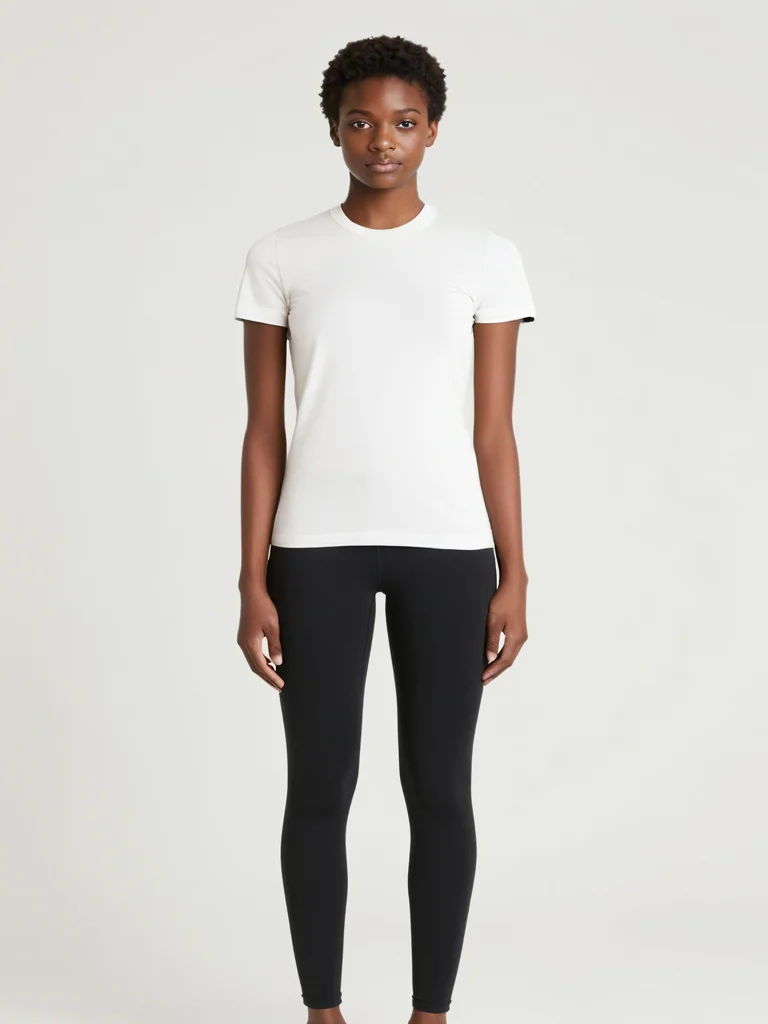
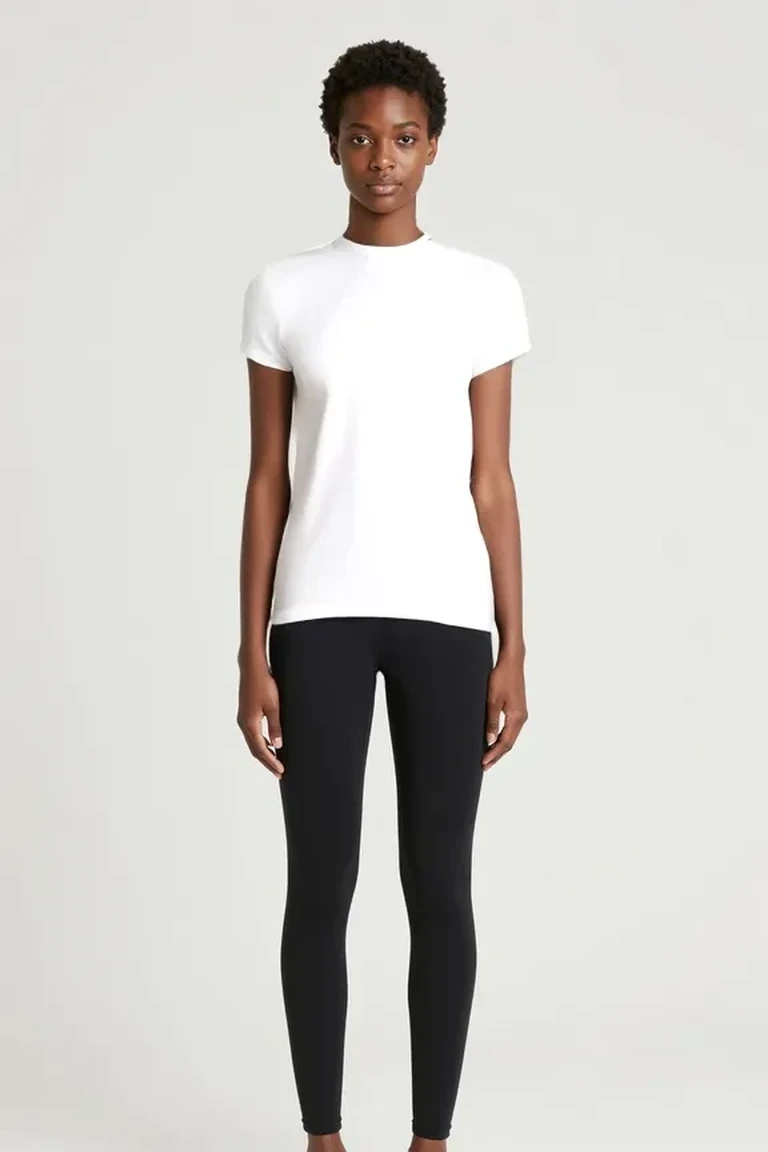
Ralph iteration 2: work in progress

diff --git a/wordpress-theme/skyyrose-flagship/assets/js/preorder-gateway.js b/wordpress-theme/skyyrose-flagship/assets/js/preorder-gateway.js
@@ -730,6 +730,11 @@
 				formData.forEach(function (value, key) {
 					params.push(encodeURIComponent(key) + '=' + encodeURIComponent(value));
 				});
+				// Ensure nonce is included for server-side verification.
+				var nonce = window.skyyRoseData && window.skyyRoseData.nonce;
+				if (nonce && params.join('').indexOf('nonce') === -1) {
+					params.push('nonce=' + encodeURIComponent(nonce));
+				}
 				xhr.send(params.join('&'));
 			});
 		}
@@ -843,6 +848,16 @@
 
 		tickUrgency();
 		urgencyInterval = setInterval(tickUrgency, 60000);
+
+		// Pause/resume urgency countdown when tab visibility changes.
+		document.addEventListener('visibilitychange', function () {
+			if (document.hidden) {
+				if (urgencyInterval) { clearInterval(urgencyInterval); urgencyInterval = null; }
+			} else {
+				tickUrgency();
+				if (!urgencyInterval) { urgencyInterval = setInterval(tickUrgency, 60000); }
+			}
+		});
 	}
 
 	/* --------------------------------------------------

diff --git a/wordpress-theme/skyyrose-flagship/assets/css/woocommerce-checkout.css b/wordpress-theme/skyyrose-flagship/assets/css/woocommerce-checkout.css
@@ -611,3 +611,14 @@
 .skyy-checkout .woocommerce-breadcrumb {
 	display: none;
 }
+
+/* Reduced motion: disable step fade-in animation and progress transitions */
+@media (prefers-reduced-motion: reduce) {
+	.skyy-checkout__step--active,
+	.skyy-checkout__step[data-skyy-active] {
+		animation: none;
+	}
+	.skyy-checkout__progress-fill {
+		transition: none;
+	}
+}

diff --git a/wordpress-theme/skyyrose-flagship/assets/js/conversion-engine.js b/wordpress-theme/skyyrose-flagship/assets/js/conversion-engine.js
@@ -61,8 +61,6 @@
 			Object.keys(attrs).forEach(function (key) {
 				if (key === 'textContent') {
 					el.textContent = attrs[key];
-				} else if (key === 'innerHTML') {
-					el.innerHTML = attrs[key];
 				} else {
 					el.setAttribute(key, attrs[key]);
 				}
@@ -675,10 +673,12 @@
 			cleanupIntervals.forEach(function (id) {
 				clearInterval(id);
 			});
-		} else {
-			// Intervals are cleared, not resumable. Re-init viewer counters on next page interaction.
-			// For now, just clear the array so stale IDs aren't re-cleared.
 			cleanupIntervals.length = 0;
+		} else {
+			// Re-init viewer counters when tab becomes visible again.
+			// This restarts intervals that were cleared when the tab was hidden.
+			initLiveViewerCounter();
+			initRoomViewers();
 		}
 	});
 

diff --git a/wordpress-theme/skyyrose-flagship/assets/js/immersive.js b/wordpress-theme/skyyrose-flagship/assets/js/immersive.js
@@ -27,6 +27,7 @@
 	var titleOverlay  = document.querySelector('.scene-title-overlay');
 
 	// Product panel
+	var currentProductId = null;
 	var panelOverlay  = document.querySelector('.product-panel-overlay');
 	var panel         = document.querySelector('.product-panel');
 	var panelClose    = document.querySelector('.product-panel-close');
@@ -85,10 +86,13 @@
 	   Title Auto-Hide
 	   -------------------------------------------------- */
 
+	var titleHideTimer = null;
+
 	function initTitleAutoHide() {
 		if (!titleOverlay) return;
-		setTimeout(function () {
+		titleHideTimer = setTimeout(function () {
 			titleOverlay.classList.add('hidden');
+			titleHideTimer = null;
 		}, 4000);
 	}
 

diff --git a/wordpress-theme/skyyrose-flagship/assets/js/front-page.js b/wordpress-theme/skyyrose-flagship/assets/js/front-page.js
@@ -225,6 +225,11 @@
 			formData.forEach(function (value, key) {
 				params.push(encodeURIComponent(key) + '=' + encodeURIComponent(value));
 			});
+			// Ensure nonce is included for server-side CSRF verification.
+			var nonce = typeof skyyRoseData !== 'undefined' && skyyRoseData.nonce;
+			if (nonce && params.join('').indexOf('nonce') === -1) {
+				params.push('nonce=' + encodeURIComponent(nonce));
+			}
 			xhr.send(params.join('&'));
 		});
 	}

diff --git a/wordpress-theme/skyyrose-flagship/assets/js/journey-gamification.js b/wordpress-theme/skyyrose-flagship/assets/js/journey-gamification.js
@@ -503,6 +503,8 @@
 			if (e.target === overlay) dismiss();
 		});
 		document.addEventListener('keydown', keyHandler);
+		// Clean up document-level listener if user navigates away while modal is open.
+		window.addEventListener('beforeunload', dismiss);
 
 		// Show with animation.
 		requestAnimationFrame(function () {

diff --git a/wordpress-theme/skyyrose-flagship/inc/ajax-handlers.php b/wordpress-theme/skyyrose-flagship/inc/ajax-handlers.php
@@ -348,18 +348,10 @@ function skyyrose_ajax_signin() {
 	$cache_key = 'skyyrose_login_attempts_' . md5( $normalized_email );
 	$attempts  = (int) get_transient( $cache_key );
 
-	// Secondary: per-IP bucket as defence-in-depth (wider limit for shared IPs/proxies).
-	$ip_key      = 'skyyrose_login_ip_' . md5( isset( $_SERVER['REMOTE_ADDR'] ) ? $_SERVER['REMOTE_ADDR'] : 'unknown' );
-	$ip_attempts = (int) get_transient( $ip_key );
-
-	if ( $ip_attempts >= 20 ) {
-		wp_send_json_error(
-			array(
-				'message' => esc_html__( 'Too many attempts from your network. Please try again later.', 'skyyrose-flagship' ),
-			)
-		);
-		return;
-	}
+	// Per-IP rate limiting removed: on WordPress.com (and all proxy environments),
+	// REMOTE_ADDR is the proxy IP — shared by ALL users. A per-IP bucket of 20
+	// would lock out every user sitewide after 20 total login attempts.
+	// The per-email bucket (5 attempts / 15 min) is sufficient defence.
 
 	if ( $attempts >= 5 ) {
 		wp_send_json_error(
@@ -375,7 +367,6 @@ function skyyrose_ajax_signin() {
 
 	if ( is_wp_error( $user ) ) {
 		set_transient( $cache_key, $attempts + 1, 15 * MINUTE_IN_SECONDS );
-		set_transient( $ip_key, $ip_attempts + 1, 15 * MINUTE_IN_SECONDS );
 		wp_send_json_error(
 			array(
 				'message' => esc_html__( 'Invalid email or password. Please try again.', 'skyyrose-flagship' ),
@@ -384,9 +375,8 @@ function skyyrose_ajax_signin() {
 		return;
 	}
 
-	// Clear both rate-limit counters on successful login.
+	// Clear rate-limit counter on successful login.
 	delete_transient( $cache_key );
-	delete_transient( $ip_key );
 
 	// Initialize session and set authentication cookies.
 	$remember = isset( $_POST['remember'] ) && '1' === sanitize_text_field( wp_unslash( $_POST['remember'] ) );

diff --git a/wordpress-theme/skyyrose-flagship/inc/wishlist-functions.php b/wordpress-theme/skyyrose-flagship/inc/wishlist-functions.php
@@ -394,7 +394,15 @@ function skyyrose_ajax_move_to_cart() {
 	}
 }
 add_action( 'wp_ajax_skyyrose_move_to_cart', 'skyyrose_ajax_move_to_cart' );
-// nopriv removed: cart mutations require authentication (guest sessions can't persist wishlists).
+// Guest move-to-cart: return auth-required error so JS can redirect to login.
+add_action( 'wp_ajax_nopriv_skyyrose_move_to_cart', function() {
+	wp_send_json_error(
+		array(
+			'message'       => esc_html__( 'Please sign in to move items to cart.', 'skyyrose-flagship' ),
+			'require_login' => true,
+		)
+	);
+} );
 
 /**
  * AJAX handler: Clear wishlist.

diff --git a/wordpress-theme/skyyrose-flagship/template-preorder-gateway.php b/wordpress-theme/skyyrose-flagship/template-preorder-gateway.php
@@ -142,7 +142,6 @@ get_header();
 				?>
 					<article
 						class="product-grid-card"
-						aria-label="<?php echo esc_attr( $product['name'] . ' — ' . $product['price'] ); ?>"
 						data-collection="<?php echo esc_attr( $product['collection'] ); ?>"
 						data-product-id="<?php echo esc_attr( $product['id'] ); ?>"
 						data-product-name="<?php echo esc_attr( $product['name'] ); ?>"
@@ -199,7 +198,7 @@ get_header();
 	<!-- Product Modal -->
 	<div class="product-modal-overlay" aria-hidden="true"></div>
 	<div class="product-modal" id="product-modal-dialog" role="dialog" aria-modal="true" aria-hidden="true" inert aria-labelledby="modal-product-name">
-		<button class="product-modal-close" type="button" aria-label="<?php esc_attr_e( 'Close', 'skyyrose-flagship' ); ?>">&times;</button>
+		<button class="product-modal-close" type="button" aria-label="<?php esc_attr_e( 'Close product details', 'skyyrose-flagship' ); ?>">&times;</button>
 		<div class="modal-360-area">
 			<img src="<?php echo esc_url( get_template_directory_uri() . '/assets/images/placeholder.jpg' ); ?>" alt="<?php esc_attr_e( 'Product preview', 'skyyrose-flagship' ); ?>" width="400" height="400">
 			<span class="modal-360-badge"><?php echo esc_html__( '360 Preview', 'skyyrose-flagship' ); ?></span>
@@ -209,8 +208,8 @@ get_header();
 			<p class="modal-product-collection"></p>
 			<p class="modal-product-price"></p>
 			<p class="modal-product-desc"></p>
-			<p class="modal-sizes-label"><?php echo esc_html__( 'Select Size', 'skyyrose-flagship' ); ?></p>
-			<div class="modal-sizes" role="group" aria-label="<?php esc_attr_e( 'Available sizes', 'skyyrose-flagship' ); ?>"></div>
+			<p class="modal-sizes-label" id="modal-sizes-label"><?php echo esc_html__( 'Select Size', 'skyyrose-flagship' ); ?></p>
+			<div class="modal-sizes" role="group" aria-labelledby="modal-sizes-label"></div>
 			<div class="modal-actions">
 				<button class="modal-add-to-cart" type="button"><?php echo esc_html__( 'Add to Cart', 'skyyrose-flagship' ); ?></button>
 				<button class="modal-wishlist-btn" type="button" aria-label="<?php esc_attr_e( 'Add to wishlist', 'skyyrose-flagship' ); ?>">
@@ -318,7 +317,7 @@ get_header();
 	<!-- Exclusive Incentive Popup — triggers after 15s or on exit intent -->
 	<div class="incentive-popup-overlay" aria-hidden="true"></div>
 	<div class="incentive-popup" id="incentive-popup-dialog" role="dialog" aria-modal="true" aria-hidden="true" inert aria-label="<?php esc_attr_e( 'Exclusive early access offer', 'skyyrose-flagship' ); ?>">
-			<button class="incentive-popup-close" type="button" aria-label="<?php esc_attr_e( 'Close', 'skyyrose-flagship' ); ?>">&times;</button>
+			<button class="incentive-popup-close" type="button" aria-label="<?php esc_attr_e( 'Close early access offer', 'skyyrose-flagship' ); ?>">&times;</button>
 			<div class="incentive-popup-content">
 				<div class="incentive-popup-monogram"><?php echo esc_html__( 'SR', 'skyyrose-flagship' ); ?></div>
 				<h3 class="incentive-popup-title"><?php echo esc_html__( 'Unlock Early Access', 'skyyrose-flagship' ); ?></h3>

diff --git a/wordpress-theme/skyyrose-flagship/template-contact.php b/wordpress-theme/skyyrose-flagship/template-contact.php
@@ -242,15 +242,16 @@ $faq_items = array(
 					<?php wp_nonce_field( 'skyyrose_contact_form', 'skyyrose_contact_nonce' ); ?>
 					<input type="hidden" name="action" value="skyyrose_contact_submit">
 
-					<!-- Honeypot field for bot detection -->
-					<div class="contact-form__hp" aria-hidden="true" inert>
-						<label for="contact-website">
+					<!-- Honeypot field for bot detection — display:none removes from both visual and accessibility trees -->
+					<div class="contact-form__hp" style="display:none;" aria-hidden="true">
+						<label for="contact-website" aria-hidden="true">
 							<?php esc_html_e( 'Website', 'skyyrose-flagship' ); ?>
 						</label>
 						<input
 							type="text"
 							id="contact-website"
 							name="website"
+							aria-hidden="true"
 							tabindex="-1"
 							autocomplete="off"
 						>

diff --git a/wordpress-theme/skyyrose-flagship/inc/seo.php b/wordpress-theme/skyyrose-flagship/inc/seo.php
@@ -36,9 +36,9 @@ function skyyrose_product_schema() {
 		return;
 	}
 
-	global $product;
+	$product = function_exists( 'wc_get_product' ) ? wc_get_product( get_the_ID() ) : null;
 
-	if ( ! is_a( $product, 'WC_Product' ) ) {
+	if ( ! $product ) {
 		return;
 	}
 

diff --git a/wordpress-theme/skyyrose-flagship/inc/template-functions.php b/wordpress-theme/skyyrose-flagship/inc/template-functions.php
@@ -217,7 +217,7 @@ function skyyrose_breadcrumbs() {
 	);
 
 	// WooCommerce product pages.
-	if ( function_exists( 'is_product' ) && is_product() ) {
+	if ( function_exists( 'is_product' ) && function_exists( 'wc_get_page_id' ) && is_product() ) {
 		$items[] = array(
 			'title' => esc_html__( 'Shop', 'skyyrose-flagship' ),
 			'url'   => get_permalink( wc_get_page_id( 'shop' ) ),
@@ -236,7 +236,7 @@ function skyyrose_breadcrumbs() {
 			'title' => get_the_title(),
 			'url'   => '',
 		);
-	} elseif ( function_exists( 'is_shop' ) && ( is_shop() || is_product_category() || is_product_tag() ) ) {
+	} elseif ( function_exists( 'is_shop' ) && function_exists( 'wc_get_page_id' ) && ( is_shop() || is_product_category() || is_product_tag() ) ) {
 		// WooCommerce archive pages.
 		$items[] = array(
 			'title' => esc_html__( 'Shop', 'skyyrose-flagship' ),